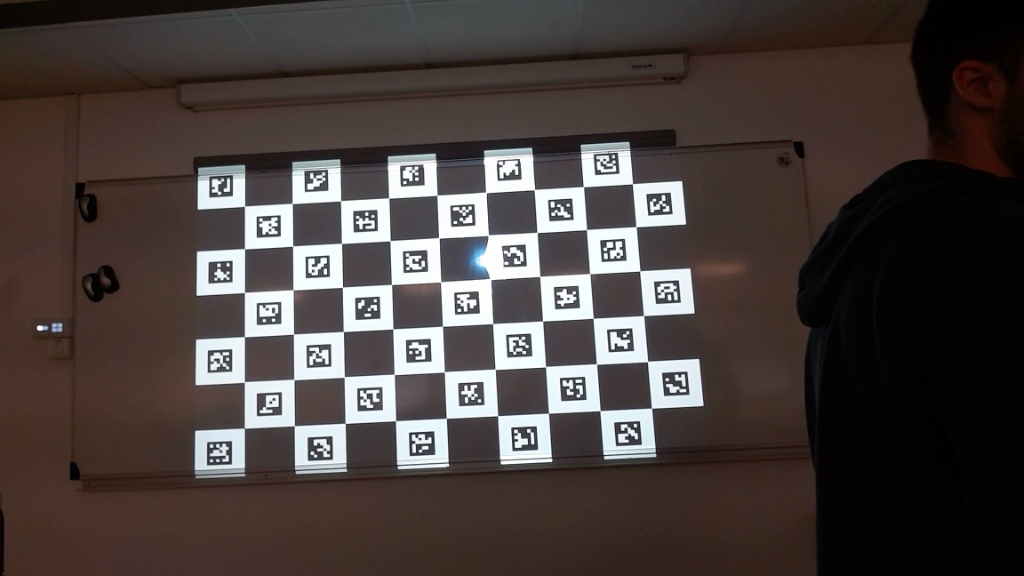
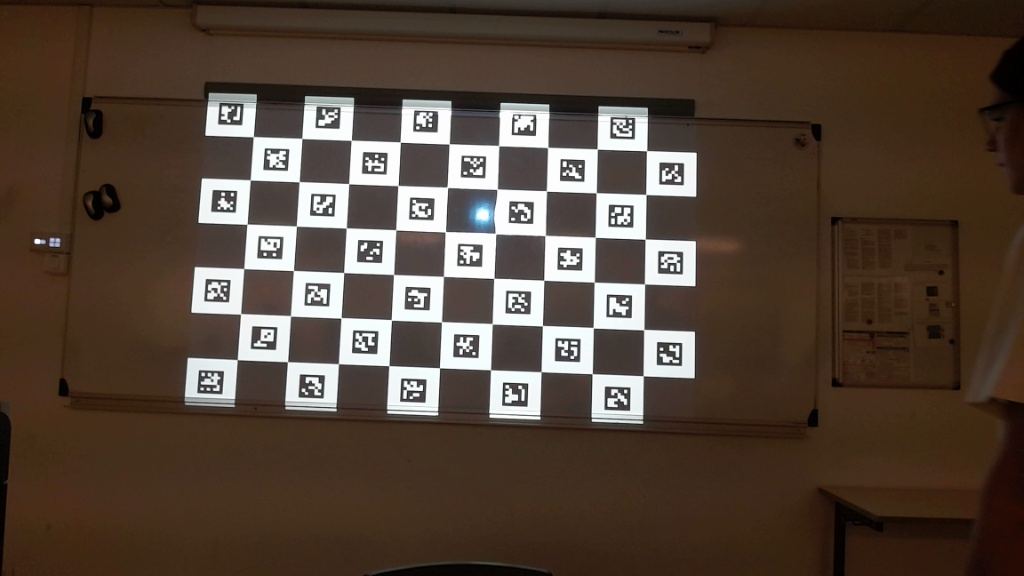
changement zone main

diff --git a/testIHMClimingProject/testIHMClimingProject/twister.cpp b/testIHMClimingProject/testIHMClimingProject/twister.cpp
@@ -1,7 +1,8 @@
 #include "twister.h"
 #include "twisterMenu.h"
 
-#define rayonCercle 30.0f
+#define rayonCercle 35.0f
+#define rayonCercleMain 35.0f
 
 Twister::Twister(TwisterMenu* _parent, Data* _dt)
 {
@@ -9,7 +10,6 @@ Twister::Twister(TwisterMenu* _parent, Data* _dt)
 	parent = _parent;
 	dt = _dt;
 	tabMain = nullptr;
-
 	QRect screen;
 
 	if (qGuiApp->screens().size() > 1) {
@@ -27,8 +27,6 @@ Twister::Twister(TwisterMenu* _parent, Data* _dt)
 		this->resize(largeur, hauteur);
 	}
 	prise = dt->getPrise();
-	ui.label_Over->setStyleSheet("QLabel { color : red; font-size : 60px;}");
-	ui.label_Over->setAlignment(Qt::AlignCenter);
 	ui.label_Over->hide();
 	srand(time(NULL));
 	ui.setupUi(this);
@@ -72,7 +70,7 @@ void Twister::paintEvent(QPaintEvent*) {
 	}
 	QPolygonF* poly = new QPolygonF(), *poly2 = new QPolygonF();
 	if (tabMain != nullptr) {
-		for (size_t i = 0; i < 8; i++)
+		for (size_t i = 0; i < 6; i++)
 		{
 			if (i % 2 == 0) {
 				poly->append(QPointF(tabMain[i * 2], tabMain[i * 2 + 1]));
@@ -84,11 +82,12 @@ void Twister::paintEvent(QPaintEvent*) {
 		}
 		QPointF center1((poly->at(1).x() + poly->at(2).x()) / 2, (poly->at(1).y() + poly->at(2).y()) / 2);
 		QPointF center2((poly2->at(1).x() + poly2->at(2).x()) / 2, (poly2->at(1).y() + poly2->at(2).y()) / 2);
-		poly->insert(2, QPointF(2 * center1.x() - poly->at(0).x(), 2 * center1.y() - poly->at(0).y()));
-		poly2->insert(2, QPointF(2 * center2.x() - poly2->at(0).x(), 2 * center2.y() - poly2->at(0).y()));
-		caliPosMain(poly, poly2);
-		painter.drawPolygon(*poly);
-		painter.drawPolygon(*poly2);
+		/*poly->insert(2, QPointF(2 * center1.x() - poly->at(0).x(), 2 * center1.y() - poly->at(0).y()));
+		poly2->insert(2, QPointF(2 * center2.x() - poly2->at(0).x(), 2 * center2.y() - poly2->at(0).y()));*/
+
+		caliPosMain(center1, center2);
+		painter.drawEllipse(center1, rayonCercleMain, rayonCercleMain);
+		painter.drawEllipse(center2, rayonCercleMain, rayonCercleMain);
 	}
 	
 
@@ -161,7 +160,7 @@ void Twister::algorithmeJeu() {
 	while(continueThread) {
 		poly->clear();
 		poly2->clear();
-		for (size_t i = 0; i < 8; i++)
+		for (size_t i = 0; i < 6; i++)
 		{
 			if (i % 2 == 0) {
 				poly->append(QPointF(tabMain[i * 2], tabMain[i * 2 + 1]));
@@ -173,12 +172,15 @@ void Twister::algorithmeJeu() {
 		}
 		QPointF center1((poly->at(1).x() + poly->at(2).x()) / 2, (poly->at(1).y() + poly->at(2).y()) / 2);
 		QPointF center2((poly2->at(1).x() + poly2->at(2).x()) / 2, (poly2->at(1).y() + poly2->at(2).y()) / 2);
-		poly->insert(2, QPointF(2 * center1.x() - poly->at(0).x(), 2 * center1.y() - poly->at(0).y()));
-		poly2->insert(2, QPointF(2 * center2.x() - poly2->at(0).x(), 2 * center2.y() - poly2->at(0).y()));
+		/*poly->insert(2, QPointF(2 * center1.x() - poly->at(0).x(), 2 * center1.y() - poly->at(0).y()));
+		poly2->insert(2, QPointF(2 * center2.x() - poly2->at(0).x(), 2 * center2.y() - poly2->at(0).y()));*/
 
-		caliPosMain(poly, poly2);
+		caliPosMain(center1, center2);
+		
 		for (QPointF* point : listObjectif) {
-			if (poly->containsPoint(*point, Qt::OddEvenFill) || poly2->containsPoint(*point, Qt::OddEvenFill)) {
+			float dist1 = sqrt(pow(center1.x() - point->x(), 2) + pow(center1.y() - point->y(), 2));
+			float dist2 = sqrt(pow(center2.x() - point->x(), 2) + pow(center2.y() - point->y(), 2));
+			if (dist1 < rayonCercleMain || dist2 < rayonCercleMain) {
 				listTouche.append(point);
 				listObjectif.removeOne(point);
 				parent->addPoint();
@@ -199,6 +201,8 @@ void Twister::algorithmeJeu() {
 			}
 			
 			if (listObjectif.size() > 2) {
+				ui.label_Over->setStyleSheet("QLabel { color : red; font-size : 60px;}");
+				ui.label_Over->setAlignment(Qt::AlignCenter);
 				ui.label_Over->show();
 				parent->loose();
 				break;
@@ -244,6 +248,28 @@ void Twister::caliPosMain(QPolygonF* poly, QPolygonF* poly2) {
 		poly2->append(QPointF(x, y));
 	}
 }
+
+void Twister::caliPosMain(QPointF &center1, QPointF &center2) {
+	std::vector<cv::Point2f> input;
+	std::vector<cv::Point2f> output;
+	
+	double x = center1.x() * 1024;
+	double y = center1.y() * 576;
+	input.push_back(cv::Point2f(x, y));
+	double x2 = center2.x() * 1024;
+	double y2 = center2.y() * 576;
+	input.push_back(cv::Point2f(x2, y2));
+	
+	perspectiveTransform(input, output, dt->getMatrice());
+
+	double X = output.at(0).x * largeur / 1920;
+	double Y = output.at(0).y * hauteur / 1080;
+	center1 = QPointF(X,Y);
+	double X2 = output.at(1).x * largeur / 1920;
+	double Y2 = output.at(1).y * hauteur / 1080;
+	center2 = QPointF(X2, Y2);
+}
+
 
 void Twister::setContinue() {
 	continueThread = false;

diff --git a/testIHMClimingProject/testIHMClimingProject/twisterMenu.cpp b/testIHMClimingProject/testIHMClimingProject/twisterMenu.cpp
@@ -8,6 +8,7 @@ TwisterMenu::TwisterMenu(QWidget* _parent, Data* _dt)
 	parent = _parent;
 	dt = _dt;
 	tw = new Twister(this, dt);
+	db = DbManager::getInstance();
 	stm = nullptr;
 	QPixmap bkgnd("../testIHMClimingProject/img/background_sae.png");
 	bkgnd = bkgnd.scaled(this->size(), Qt::IgnoreAspectRatio);
@@ -65,6 +66,7 @@ void TwisterMenu::addPoint() {
 }
 
 void TwisterMenu::loose() {
+	db->addScore(score, "Twister");
 	score = 0;
 	ui.label_number->setText(QString::number(score));
 	ui.label_number->hide();

diff --git a/testIHMClimingProject/testIHMClimingProject/detectionMain.py b/testIHMClimingProject/testIHMClimingProject/detectionMain.py
@@ -16,8 +16,8 @@ def main() :
     cap.set(cv2.CAP_PROP_FRAME_WIDTH, 1024)
     cap.set(cv2.CAP_PROP_FRAME_HEIGHT, 576)
     with mp_pose.Pose(
-        min_detection_confidence=0.6,
-        min_tracking_confidence=0.6) as pose:
+        min_detection_confidence=0.75,
+        min_tracking_confidence=0.75) as pose:
         shmem = mmap.mmap(-1, 64 ,"positionMain", access=mmap.ACCESS_WRITE)
         file = open("ContinueMediapipe.txt")
         while cap.isOpened() and file.read()=="1":

diff --git a/testIHMClimingProject/testIHMClimingProject/twister.h b/testIHMClimingProject/testIHMClimingProject/twister.h
@@ -20,6 +20,8 @@
 #include <boost/interprocess/mapped_region.hpp>
 #include <cstdlib>
 #include <fstream>
+#include <cmath>
+
 
 
 namespace py = pybind11;
@@ -42,6 +44,7 @@ private:
 	void detectionMain();
 	void algorithmeJeu();
 	void caliPosMain(QPolygonF*, QPolygonF*);
+	void caliPosMain(QPointF &center1, QPointF &center2);
 
 public:
 	Twister(TwisterMenu*, Data*);

diff --git a/testIHMClimingProject/testIHMClimingProject/twisterMenu.h b/testIHMClimingProject/testIHMClimingProject/twisterMenu.h
@@ -3,6 +3,7 @@
 #include "ui_twisterMenu.h"
 #include "scoresTwisterMenu.h"
 #include "UserConnected.h"
+#include "dbmanager.h"
 
 
 class TwisterMenu : public QWidget
@@ -11,6 +12,7 @@ private:
 	Ui::twisterMenuClass ui;
 	QWidget* parent;
 	Data* dt;
+	DbManager* db;
 	Twister* tw;
 	int score;
 	scoresTwisterMenu* stm;

diff --git a/testIHMClimingProject/testIHMClimingProject/dbmanager.cpp b/testIHMClimingProject/testIHMClimingProject/dbmanager.cpp
@@ -94,7 +94,7 @@ bool DbManager::addScore(int score, QString jeu) {
     {
         qDebug() << "add dt/aqi failed: " << queryAdd.lastError();
     }
-
+    notifyObserver();
     return success;
 }
 
